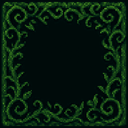
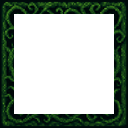
Info panel: translucent center with opaque atlas border
Replace sewers_sm.png with hollow variant (transparent center, opaque
filigree border). Add a 50% black rectangle behind the nineslice panel
so the zone background shows through the center while the atlas border
remains fully opaque.

diff --git a/FrontEnds/dungeon-fisher/src/scenes/FloorScene.js b/FrontEnds/dungeon-fisher/src/scenes/FloorScene.js
@@ -72,6 +72,9 @@ export default class FloorScene extends Phaser.Scene {
         delete infoPanelTheme.compositeKey;
         delete infoPanelTheme.pieceSize;
         infoPanelTheme.atlasKey = zone.atlasKey + '_sm';
+        // Translucent fill behind hollow atlas border
+        this.add.rectangle(W / 2, panelH / 2, W - panelMargin * 2, panelH, 0x000000, 0.5)
+            .setDepth(0).setScrollFactor(0);
         new UIPanel(this, {
             x: panelMargin, y: 0, width: W - panelMargin * 2, height: panelH,
             theme: infoPanelTheme, cornerSize: 10, padding: 0, alpha: 1, fx: false

diff --git a/FrontEnds/dungeon-fisher/src/version.js b/FrontEnds/dungeon-fisher/src/version.js
@@ -2,7 +2,7 @@
 //   MAJOR — large game changes, system overhauls, breaking save changes
 //   MINOR — new features, content additions (fish, scenes, mechanics)
 //   PATCH — bug fixes, UI tweaks, balance tuning
-export const VERSION = '1.13.54';
+export const VERSION = '1.13.55';
 
 // Save format version — bump when save data structure changes.
 // This is separate from the game version because UI/balance changes
